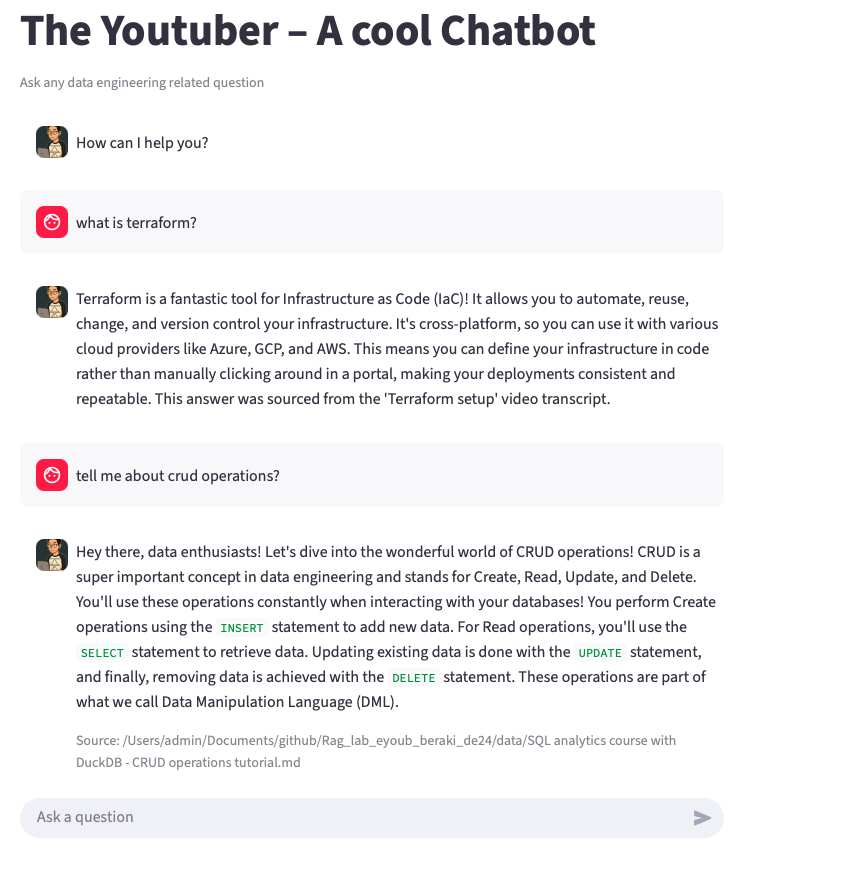
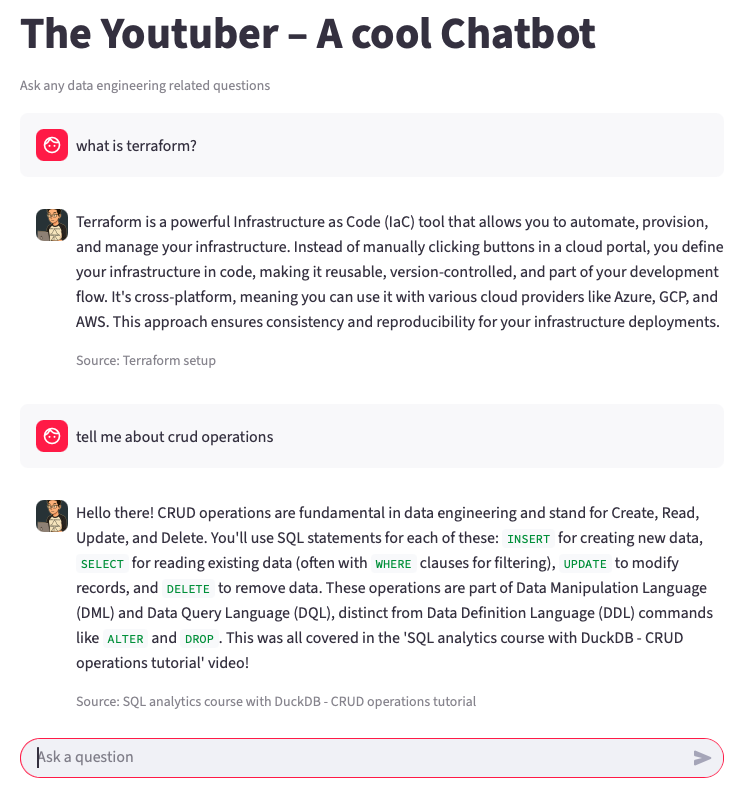
minor fixes

diff --git a/frontend/app.py b/frontend/app.py
@@ -1,18 +1,17 @@
 import streamlit as st
 import requests
-import os 
+from pathlib import Path
+import os
 from dotenv import load_dotenv
 
 load_dotenv()
 
 URL = f"https://ragbot-ebt.azurewebsites.net/rag/query?code={os.getenv('FUNCTION_APP_API')}"
-
 ASSISTANT_AVATAR = "assets/assistant.png"
-
 
 def layout():
     st.title("The Youtuber – A cool Chatbot")
-    st.caption("Ask any data engineering related question")
+    st.caption("Ask any data engineering related questions")
 
     st.session_state.setdefault(
         "messages", [{"role": "assistant", "content": "How can I help you?"}]
@@ -20,9 +19,10 @@ def layout():
 
     for message in st.session_state.messages:
         if message["role"] == "assistant":
-            st.chat_message(
-                "assistant", avatar=ASSISTANT_AVATAR#LLM
-            ).write(message["content"])
+            with st.chat_message("assistant", avatar=ASSISTANT_AVATAR):
+                st.write(message["content"])
+                if message.get("source"):
+                    st.caption(f"Source: {message['source']}")
         else:
             st.chat_message("user").write(message["content"])
 
@@ -31,20 +31,36 @@ def layout():
         st.session_state.messages.append({"role": "user", "content": prompt})
         st.chat_message("user").write(prompt)
 
-        response = requests.post(URL, json={"prompt": prompt})
-        response.raise_for_status()
+        with st.spinner("Thinking..."):
+            response = requests.post(URL, json={"prompt": prompt})
+
+        if response.status_code != 200:
+            st.session_state.messages.append(
+                {
+                    "role": "assistant",
+                    "content": "Something went wrong on the server. Please try again.",
+                }
+            )
+            st.rerun()
 
         data = response.json()
         answer = data.get("answer")
         source = data.get("filepath")
 
-        st.session_state.messages.append({"role": "assistant", "content": answer})
+        source_name = Path(source).stem if source else None
 
-        with st.chat_message("assistant", avatar=ASSISTANT_AVATAR): #LLM
-            st.write(answer)
-            if source:
-                st.caption(f"Source: {source}")
-
+        st.session_state.messages.append(
+            {
+                "role": "assistant",
+                "content": answer,
+                "source": source_name,
+            }
+        )
+        st.rerun()
+        
+if st.button("Rensa chatt"):
+    st.session_state.messages = []
+    st.rerun()
 
 if __name__ == "__main__":
     layout()
